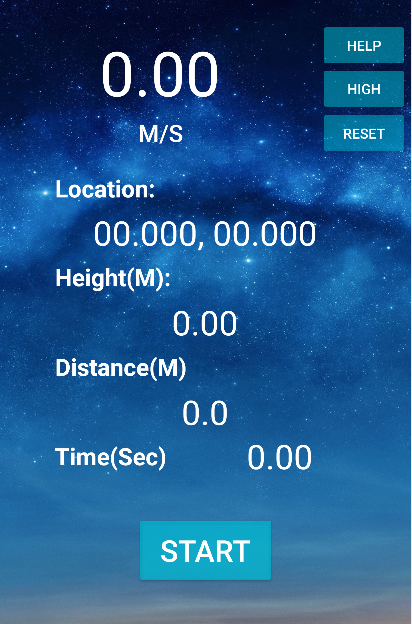
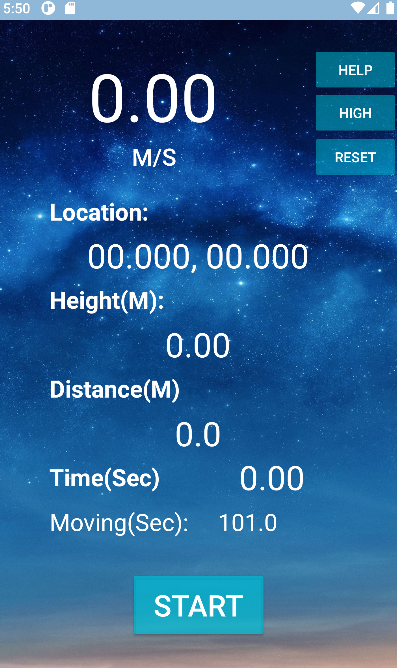
Update README.md

diff --git a/README.md b/README.md
@@ -39,7 +39,7 @@ Enter high score page by pressing "High" button. In this page you can see the ma
 *High Score pannel*
 
 ## Reset
-Hit "Reset" button to reset all measurement, including High Score page.
+Hit "Reset" button to reset all measurement, including High Score page. Reset will not clear Moving time for it is set to record all time movement.
 
 ![ResetButtonImg](/resource/img/ResetButton.PNG)
 
@@ -60,7 +60,11 @@ Hit "Reset" button to reset all measurement, including High Score page.
 ## Historical Data
 Historical data will be stored in OnDestory() method. Encryption will be considered in further development for privacy and security purpose.
 
+![HistoricalDataImg](/resource/img/HistoricalData.PNG)
+
 ## Moving time
 Moving time increase every second if your speed is non-zero.
 
+![MovingTimeImg](/resource/img/MovingTime.PNG)
 
+*Moving Time*
